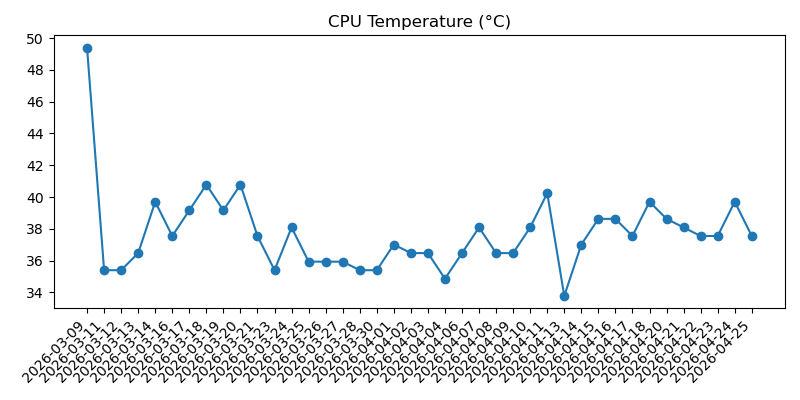
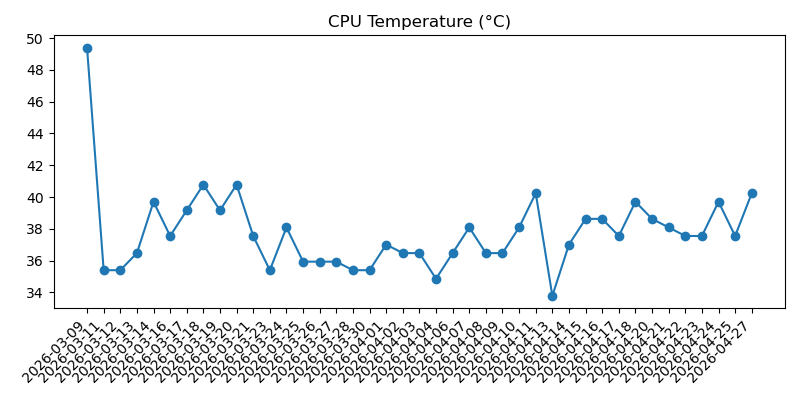
Update Pi daily status

diff --git a/2026-04.md b/2026-04.md
@@ -748,3 +748,37 @@
 - Overall: Good
 - Warning: None
 
+## 2026-04-27 12:56:47
+
+### Machine
+- Uptime: up 6 days, 14 hours, 42 minutes
+- CPU load (1m, 5m, 15m): 0.00, 0.00, 0.00
+- RAM used: 161 MB / 921 MB (17.5%)
+- Disk used (/): 3.5 GB / 28.8 GB (12.2%)
+- Free disk space (/): 24.1 GB
+- CPU temp: 40.2°C
+- Voltage / throttling: Undervoltage has occurred; Throttling has occurred
+
+### Reachability
+- Internet check (1.1.1.1): Reachable (3.8 ms)
+
+### Weather
+- Madrid:
+  - Condition: Nubes altas
+  - Max temp: 26°C
+  - Min temp: 14°C
+  - Feels like: 20°C
+  - Chance of rain: 0%
+  - Warnings: None reported
+- Barcelona:
+  - Condition: Poco nuboso
+  - Max temp: 23°C
+  - Min temp: 16°C
+  - Feels like: 20°C
+  - Chance of rain: 5%
+  - Warnings: None reported
+
+### Health
+- Overall: Warning
+- Warning: Power issue detected: Undervoltage has occurred; Throttling has occurred
+
